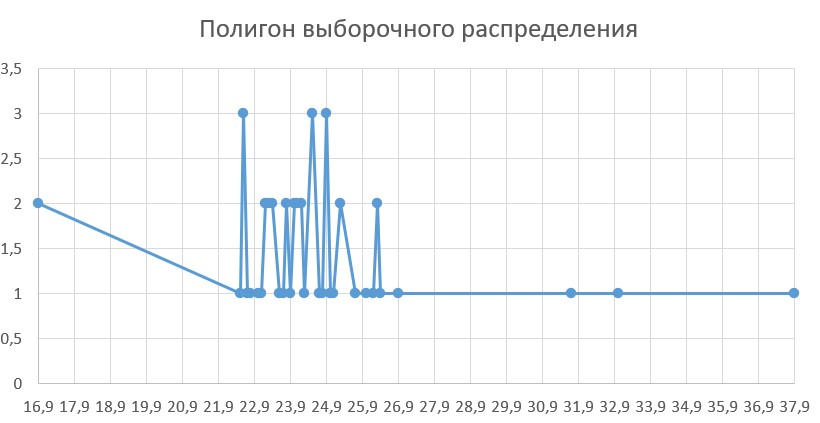
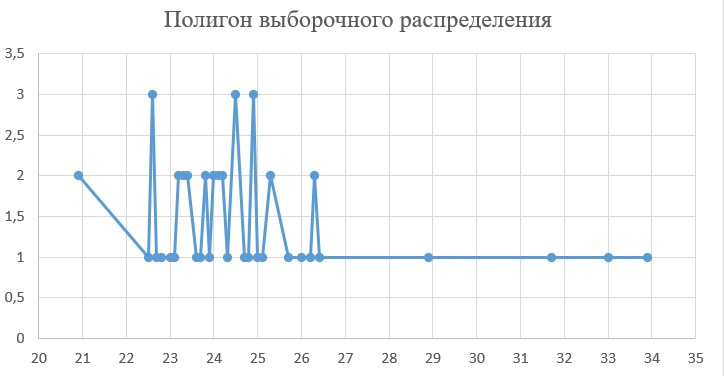
Add more text

diff --git a/work/first/main.tex b/work/first/main.tex
@@ -37,14 +37,14 @@
         1985 & 24,1 & 2010 & 24,8 \\ \hline
         1986 & 26,0 & 2011 & 26,4 \\ \hline
         1987 & 24,9 & 2012 & 26,2 \\ \hline
-        1988 & 16,9 & 2013 & 26,3 \\ \hline
+        1988 & 20,9 & 2013 & 26,3 \\ \hline
         1989 & 24,5 & 2014 & 24,2 \\ \hline
         1990 & 24,9 & 2015 & 24,1 \\ \hline
         1991 & 24,0 & 2016 & 31,7 \\ \hline
         1992 & 23,8 & 2017 & 32,0 \\ \hline
         1993 & 23,3 & 2018 & 22,6 \\ \hline
         1994 & 23,4 & 2019 & 22,8 \\ \hline
-        1995 & 37,9 & 2020 & 22,6 \\ \hline
+        1995 & 33,9 & 2020 & 22,6 \\ \hline
     \end{tabular}
 \end{table}
 \newpage
@@ -55,7 +55,7 @@
     \centering
     \begin{tabular}{|c|c|c|c|c|c|c|c|c|c|}
         \hline
-        16,9 & 16,9 & 22,5 & 22,6 & 22,6 & 22,6 & 22,7 & 22,8 & 23,0 & 23,1\\
+        20,9 & 20,9 & 22,5 & 22,6 & 22,6 & 22,6 & 22,7 & 22,8 & 23,0 & 23,1\\
         \hline
         23,2 & 23,2 & 23,3 & 23,3 & 23,4 & 23,4 & 23,6 & 23,7 & 23,8 & 23,8\\
         \hline
@@ -63,7 +63,7 @@
         \hline
         24,5 & 24,7 & 24,8 & 24,9 & 24,9 & 24,9 & 25,0 & 25,1 & 25,3 & 25,3\\
         \hline
-        25,7 & 26,0 & 26,2 & 26,3 & 26,3 & 26,4 & 26,9 & 31,7 & 33,0 & 37,9\\
+        25,7 & 26,0 & 26,2 & 26,3 & 26,3 & 26,4 & 28,9 & 31,7 & 33,0 & 33,9\\
         \hline
     \end{tabular}
 \end{table}
@@ -73,13 +73,13 @@
     \centering
     \begin{tabular}{|c|c|c|c|c|c|c|c|c|c|}
         \hline
-        16,9 & 22,5 & 22,6 & 22,7 & 22,8 & 23,0 & 23,1 & 23,2 & 23,3 & 23,4\\
+        20,9 & 22,5 & 22,6 & 22,7 & 22,8 & 23,0 & 23,1 & 23,2 & 23,3 & 23,4\\
         \hline
         23,6 & 23,7 & 23,8 & 23,9 & 24,0 & 24,1 & 24,2 & 24,3 & 24,5 & 24,7\\
         \hline
         24,8 & 24,9 & 25,0 & 25,1 & 25,3 & 25,7 & 26,0 & 26,2 & 26,3 & 26,4\\
         \hline
-        26,9 & 31,7 & 33,0 & 37,9 & & & & & &\\
+        28,9 & 31,7 & 33,0 & 33,9 & & & & & &\\
         \hline
     \end{tabular}
 \end{table}
@@ -88,14 +88,14 @@
 
 Медина - наблюдение, стоящее в середине порядковой выборки. Поскольку объём выборки чётное число ($n=50$), то медиану посчитаем по следующей формуле:
 \begin{align*}
-    m = \frac{x_{\tfrac{n}{2}} + x_{\tfrac{n}{2} + 1}}{2} = \frac{37,9 + 22,5}{2} = 30,2
+    m = \frac{x_{\tfrac{n}{2}} + x_{\tfrac{n}{2} + 1}}{2} = \frac{24,1 + 24,2}{2} = 24,15
 \end{align*}
 
 Построим вариационный ряд:
 \begin{table}[h!]
     \begin{tabular}{|c|c|c|c|c|c|c|c|c|c|c|}
         \hline
-        $x_i$ & 16,9 & 22,5 & 22,6 & 22,7 & 22,8 & 23,0 & 23,1 & 23,2 & 23,3 & 23,4 \\
+        $x_i$ & 20,9 & 22,5 & 22,6 & 22,7 & 22,8 & 23,0 & 23,1 & 23,2 & 23,3 & 23,4 \\
         \hline
         $n_i$ & 2 & 1 & 3 & 1 & 1 & 1 & 1 & 2 & 2 & 2\\
         \hline
@@ -129,7 +129,7 @@
 \begin{table}[h!]
     \begin{tabular}{|c|c|c|c|c|c|c|c|c|c|c|}
         \hline
-        $x_i$ & 26,9 & 31,7 & 33,0 & 37,9\\
+        $x_i$ & 28,9 & 31,7 & 33,0 & 33,9\\
         \hline
         $n_i$ & 1 & 1 & 1 & 1 \\
         \hline
@@ -144,31 +144,31 @@ $w_i$ - относительная частота вариации $x_i$.
 
 {
 \centering
-\includegraphics[scale=0.75]{img/poligon.jpg}
+\includegraphics[scale=0.85]{img/poligon.jpg}
 }
 
 Пусть $k$ - число вариаций.
 
 Выборочное среднее - среднее арифметическое значений выборки:
 \begin{align*}
-    \overline{x}_B = \sum\limits_{i=1}^{k}x_i w_i = 16,9 \cdot 0,04 + 22,5 \cdot 0,02 + \ldots + 37,9 \cdot 0,02 = 24,56.
+    \overline{x}_B = \sum\limits_{i=1}^{k}x_i w_i = 20,9 \cdot 0,04 + 22,5 \cdot 0,02 + \ldots + 33,9 \cdot 0,02 = 24,68.
 \end{align*}
 
 Выборочная дисперсия - мера разброса значений выборки относительно ее среднего:
 \begin{align*}
-    D_B(x) = \sum\limits_{i=1}^{k}x_i^2w_i - (\overline{x}_B)^2 = 16,9^2 \cdot 0,04 + \ldots + 37,9^2 \cdot 0,02 - (24,56)^2 = 9,63.
+    D_B(x) = \sum\limits_{i=1}^{k}x_i^2w_i - (\overline{x}_B)^2 = 20,9^2 \cdot 0,04 + \ldots + 33,9^2 \cdot 0,02 - (24,64)^2 = 6,26.
 \end{align*}
 
 Выборочное среднеквадратическое отклонение:
 \begin{align*}
-    \sigma_B(x) = \sqrt{{D_B(x)}} = \sqrt{9.63} = 3.10
+    \sigma_B(x) = \sqrt{{D_B(x)}} = \sqrt{6,26} = 2,5
 \end{align*}
 \newpage
 
 \mysec{Доверительные интервалы}
 Доверительный интервал математического ожидания при известном $\sigma_B(x)$:
 \begin{align*}
-    a \in \left( \overline{x}_B - t_{\gamma}\frac{\sigma}{\sqrt{n}}; \overline{x}_B + t_{\gamma}\frac{\sigma}{\sqrt{n}} \right).
+    a \in \left( \overline{x}_B - t_{\gamma}\frac{\sigma}{\sqrt{n}}; \quad \overline{x}_B + t_{\gamma}\frac{\sigma}{\sqrt{n}} \right).
 \end{align*}
 
 Величина $t_{\gamma}$ находится из следующего равенства:
@@ -181,22 +181,22 @@ $w_i$ - относительная частота вариации $x_i$.
 
 Поскольку $\sigma = 3.1$, то при доверительной вероятности $\gamma = 0,95$ верно следующее:
 \begin{align*}
-    a \in \Big(24,56 - 1,96\cdot \frac{3,1}{\sqrt{50}}; & 24,56 + 1,96\cdot \frac{3,1}{\sqrt{50}}\Big), \\
-    a \in ( 23,7; & 25,42 ).
+    a \in \Big(24,68 - 1,96\cdot \frac{2,5}{\sqrt{50}};\  & 24,68 + 1,96\cdot \frac{2,5}{\sqrt{50}}\Big), \\
+    a \in ( 23,98;\  & 25,37 ).
 \end{align*}
 
 При доверительной вероятности $\gamma=0,99$ верно:
 \begin{align*}
-    a \in \Big(24,56 - 2,86\cdot \frac{3,1}{\sqrt{50}}; & 24,56 + 2,86\cdot \frac{3,1}{\sqrt{50}}\Big), \\
-    a \in ( 23,3; & 25,81 ).
+    a \in \Big(24,68 - 2,86\cdot \frac{2,5}{\sqrt{50}};\  & 24,68 + 2,86\cdot \frac{2,5}{\sqrt{50}}\Big), \\
+    a \in ( 23,67;\  & 25,69 ).
 \end{align*}
 
 Доверительный интервал математического ожидания при неизвестном $\sigma_B(x)$:
 Так как $\sigma_B(x)$ неизвестно, то вычислим исправленную выборочную дисперсию:
 \begin{align*}
-    s^2 = \frac{n}{n-1}D_B(x) &= \frac{50}{49} \cdot 9,63 = 9,82 \\
-    s = \sqrt{s^2} &= \sqrt{9.82} = 3,13 \\ 
-    a \in \Big( \overline{x}_B - t_\gamma\frac{s}{\sqrt{n}}&; \overline{x}_B + t_\gamma\frac{s}{\sqrt{n}} \Big)
+    s^2 = \frac{n}{n-1}D_B(x) &= \frac{50}{49} \cdot 6,25 = 6,38 \\
+    s = \sqrt{s^2} &= \sqrt{6,38} = 2,52 \\ 
+    a \in \Big( \overline{x}_B - t_\gamma\frac{s}{\sqrt{n}};\  & \overline{x}_B + t_\gamma\frac{s}{\sqrt{n}} \Big)
 \end{align*}
 
 В данном случае $t_\gamma$ берётся из таблицы Стьюдента. $df = 50 - 1 = 49$.\\
@@ -205,72 +205,180 @@ $w_i$ - относительная частота вариации $x_i$.
 
 При доверительной вероятности $\gamma=0,95$ верно:
 \begin{align*}
-    a \in \Big( 24,56 - 2,022 \cdot \frac{3,1}{\sqrt{50}} &; 24,56 + 2,022 \cdot \frac{3,1}{\sqrt{50}} \Big)\\
-    a \in ( 23,67 &; 25,45).
+    a \in \Big( 24,68 - 2,022 \cdot \frac{2,52}{\sqrt{50}};\  & 24,68 + 2,022 \cdot \frac{2,52}{\sqrt{50}} \Big)\\
+    a \in ( 23,96;\  & 25,4).
 \end{align*}
 
 При доверительной вероятности $\gamma=0,99$ верно:
 \begin{align*}
-    a \in \Big( 24,56 - 2,680 \cdot \frac{3,1}{\sqrt{50}} &; 24,56 + 2,680 \cdot \frac{3,1}{\sqrt{50}} \Big)\\
-    a \in ( 23,38 &; 25,73).
+    a \in \Big( 24,68 - 2,680 \cdot \frac{2,52}{\sqrt{50}};\  & 24,68 + 2,680 \cdot \frac{2,52}{\sqrt{50}} \Big)\\
+    a \in ( 23,72;\ & 25,63).
 \end{align*}
 
 Доверительный интервал дисперсии при неизвестном математическом ожидании:
 \begin{align*}
-    \sigma^2 \in \Bigg( \frac{(n-1)s^2}{\chi^2_{\tfrac{1+\gamma}{2},n-1}}&; \frac{(n-1)s^2}{\chi^2_{\tfrac{1-\gamma}{2},n-1}} \Bigg)\\
+    \sigma^2 \in \Bigg( \frac{(n-1)s^2}{\chi^2_{\tfrac{1+\gamma}{2},n-1}};\ & \frac{(n-1)s^2}{\chi^2_{\tfrac{1-\gamma}{2},n-1}} \Bigg)\\
     \frac{1-\gamma_1}{2} = \frac{1 - 0,95}{2} = 0,025; \quad& \frac{1+\gamma_1}{2} = \frac{1+0,95}{2} = 0,975\\
     \frac{1-\gamma_2}{2} = \frac{1 - 0,99}{2} = 0,005; \quad& \frac{1+\gamma_2}{2} = \frac{1+0,99}{2} = 0,995\\
-    \chi^2_{0,975;49} = 71,32 \qquad& \chi^2_{0,025;49} = ??,?? \\
-    \chi^2_{0,995;49} = 79,19 \qquad& \chi^2_{0,005;49} = ??,??
+    \chi^2_{0,975;49} = 70,22 \qquad& \chi^2_{0,025;49} = 31,55 \\
+    \chi^2_{0,995;49} = 78,23 \qquad& \chi^2_{0,005;49} = 27,25
 \end{align*}
 
 При доверительной вероятности $\gamma=0,95$ верно:
 \begin{align*}
-    \sigma^2 \in \Big( \frac{49 \cdot 9,82}{71,32}; & \frac{49 \cdot 9,82}{} \Big)\\
+    \sigma^2 \in \Big( \frac{49 \cdot 6,38}{70,22};\  & \frac{49 \cdot 6,38}{31,55} \Big)\\
+    \sigma^2 \in (4,45;\  & 9,91)\\
+    \sigma \in (2,11;\  & 3,15)
+\end{align*}
+
+При доверительной вероятности $\gamma=0,99$ верно:
+\begin{align*}
+    \sigma^2 \in \Big( \frac{49 \cdot 6,38}{78,23};\  & \frac{49 \cdot 6,38}{27,25} \Big)\\
+    \sigma^2 \in (3.99;\  & 11,47)\\
+    \sigma \in (1.99;\  & 3,37)
 \end{align*}
 
 \newpage
 
 \mysec{Интервальный вариационный ряд и его характеристики}
-Имеется 50 значений от 16,9 до 37,9. Пусть левая граница значения будет равна 16. Получаем отрезок [16;37,9].
-Пусть длина интервала $h=???$.
-Если значене $x_i$ попадает на границу интервалов и $x_i$ является нечётным числом, то большую часть относим к левому интервалу.
-% Здесь должна быть таблица
-% \begin{table}[h!]
-%     \centering
-%     \begin{tabular}{|c|c|c|c|c|c|c|c|c|c|c|}
-        % \hline
-        % $x_i$ & 26,9 & 31,7 & 33,0 & 37,9\\
-        % \hline
-        % $n_i$ & 1 & 1 & 1 & 1 \\
-        % \hline
-        % $w_i$ & 0,02 & 0,02 & 0,02 & 0,02 \\
-        % \hline
-%     \end{tabular}
-% \end{table}
+Имеется 50 значений от 20,9 до 33,9. Пусть левая граница значения будет равна 20. Получаем отрезок [16;37,9].
+Пусть длина интервала $h=2$.
+Если значене $x_i$ попадает на границу интервалов и $x_i$ является нечётным числом, то большую часть относим к левому интервалу, в противном
+случае делим попалам.
+\begin{table}[h!]
+    \centering
+    \begin{tabular}{|c|c|c|c|c|c|c|c|}
+        \hline
+        $I_i$ & [20;22] & [22;24] & [24;26] & [26;28] & [28;30] & [30;32] & [32;34]\\
+        \hline
+        $n_i$ & 2 & 20 & 20 & 4 & 1 & 1 & 2 \\
+        \hline
+        $w_i$ & 0,04 & 0,4 & 0,4 & 0,08 & 0,02 & 0,02 & 0,04 \\
+        \hline
+    \end{tabular}
+\end{table}
 
 $I_i$ - интервал с номером $i$;\\
 $n_i$ - количество вариаций $x_i$, попавших в интервал $I_i$;\\
 $w_i$ - относительная частота.
 
 % Гистограмма выборки
+\begin{center}
+\includegraphics[scale=0.95]{img/gisto_choice.jpg}
+\end{center}
 
-% Какое-то заключение
+Для того, чтобы определить к какой совокупности относится выборка проведём статистическую проверку.
 \newpage
 
 \mysubsec{Числовые характеристики интервального ряда}
+\begin{table}[h!]
+    \centering
+    \begin{tabular}{|c|c|c|c|c|c|c|c|}
+        \hline
+        $x_i$ & 21 & 23 & 25 & 27 & 29 & 31 & 33\\
+        \hline
+        $n_i$ & 2 & 20 & 20 & 4 & 1 & 1 & 2 \\
+        \hline
+        $w_i$ & 0,04 & 0,4 & 0,4 & 0,08 & 0,02 & 0,02 & 0,04 \\
+        \hline
+    \end{tabular}
+\end{table}
+
+Выборочное среднее интервального ряда:
+\begin{align*}
+    \overline{x}_B^* = 21 \cdot 0,04 + 23 \cdot 0,4 + \ldots + 33 \cdot 0,04 = 24,72.
+\end{align*}
+
+Выборочная дисперсия интервального ряда:
+\begin{align*}
+    D_B*(x) = 21^2 \cdot 0,04 + 23^2 \cdot 0,4 + \ldots + 33^2 \cdot 0,04 - (24,72)^2 = 6,08
+\end{align*}
+
+Выборочное среднеквадратическое отклонение интервального ряда:
+\begin{align*}
+    \sigma_B^*(x) = \sqrt{D_B^*(x)} = 2,47
+\end{align*}
+
+Функция распределения определяется вероятностью того, что случайно выбранное значение из выборки окажется меньше аргумента функции.
+
+Выборочная функция распределения интервального ряда:
+\begin{align*}
+    F_n^* =
+    \begin{cases}
+        0   ,&\ x \leq 21, \\
+        0,04,&\  21 < x \leq 23, \\
+        0,44,&\  23 < x \leq 25, \\
+        0,84,&\  25 < x \leq 27, \\
+        0,92,&\  27 < x \leq 29, \\
+        0,94,&\  29 < x \leq 31, \\
+        0,96,&\  31 < x \leq 33, \\
+        1   ,&\  x > 33.
+    \end{cases}
+\end{align*}
 \newpage
 
 \mysec{Проверка на нормальный закон распределения}
+Предположим, что данная выборка имеет нормальный закон распределения.
+
+Обозначим $m_i$ - выровненную по нормальному закону частоту. Найдём её по следующей формуле:
+\begin{align*}
+    m_i = p_i \cdot n,
+\end{align*}
+где $p_i = p(\alpha < x < \beta) = \Phi(\tfrac{\beta - \overline{x}_B^*}{\sigma_B^*(x)}) - \Phi(\tfrac{\alpha - \overline{x}_B^*}{\sigma_B^*(x)})$, где
+$\alpha$ и $\beta$ - границы интервала, $\overline{x}_B^*$ - выборочное среднее интервального ряда, $\sigma_B^*(x)$ - среднеквадратическое отклонение.
+
+% TODO: Сделать вычисления до 3-х знаков после запятой
+
+Выпишем значения функции Лапласа для каждой границы интервалов. Напомним, что $\overline{x}_B^* = 24,72$, $\sigma_B^*(x) = 2,47$.
+\begin{align*}
+    \Phi \left( \frac{20 - 24,72}{2,47} \right) &= -\Phi(1,91) = -0,47,\\
+    \Phi \left( \frac{22 - 24,72}{2,47} \right) &= -\Phi(1,10) = -0,36,\\
+    \Phi \left( \frac{24 - 24,72}{2,47} \right) &= -\Phi(0,29) = -0,11,\\
+    \Phi \left( \frac{26 - 24,72}{2,47} \right) &=  \Phi(0,52) =  0,20,\\
+    \Phi \left( \frac{28 - 24,72}{2,47} \right) &=  \Phi(1,33) =  0,41,\\
+    \Phi \left( \frac{30 - 24,72}{2,47} \right) &=  \Phi(2,14) =  0,48,\\
+    \Phi \left( \frac{32 - 24,72}{2,47} \right) &=  \Phi(2,95) =  0,49,\\
+    \Phi \left( \frac{34 - 24,72}{2,47} \right) &=  \Phi(3,76) =  0,49.
+\end{align*}
+
+Получим, следующую таблицу значений:
+\begin{table}[h!]
+    \centering
+    \begin{tabular}{|c|c|c|c|c|c|c|c|c|}
+        \hline
+        $\alpha_i$  & 20 & 22 & 24 & 26 & 28 & 30 & 32 & 34\\
+        \hline
+        $\Phi(\tfrac{\alpha_i - \overline{x}_B^*}{\sigma_B^*(x)})$ & -0,47 & -0,36 & -0,11 & 0,20 & 0,41 & 0,48 & 0,49 & 0,49\\
+        \hline
+    \end{tabular}
+\end{table}
+
+Для каждого интервала вычислим $p_i$:
+\begin{align*}
+    p_1 &= p(20 < x < 22) = -0,36 - ( -0,47 ) = 0,11, \\
+    p_2 &= p(22 < x < 24) = -0,11 - ( -0,36 ) = 0,25, \\
+    p_3 &= p(24 < x < 26) =  0,20 - ( -0,11 ) = 0,31, \\
+    p_4 &= p(20 < x < 28) =  0,41 - (  0,20 ) = 0,21, \\
+    p_5 &= p(28 < x < 30) =  0,48 - (  0,41 ) = 0,09, \\
+    p_6 &= p(30 < x < 32) =  0,49 - (  0,48 ) = 0,01, \\
+    p_7 &= p(32 < x < 34) =  0,49 - (  0,49 ) = 0. \\
+\end{align*}
+
+Получим, следующую таблицу значений:
+\begin{table}[h!]
+    \centering
+    \begin{tabular}{|c|c|c|c|c|c|c|c|c|}
+        \hline
+        $p_1$ & $p_2$ &$p_3$ &$p_4$ &$p_5$ &$p_6$ &$p_7$ \\
+        \hline
+        0,11 & 0,25 & 0,31 & 0,31 & 0,09 & 0,01 & 0 \\
+        \hline
+    \end{tabular}
+\end{table}
+
 \newpage
 
 \mysubsec{Выравние частот по нормальному закону}
-\newpage
-
-\mysec{Проверка на нормальный закон распределения}
-\newpage
-
-\mysubsec{Выравнивание частот по нормальному закону}
 \newpage
 
 \mysubsec{Критерий $\chi^2$}
